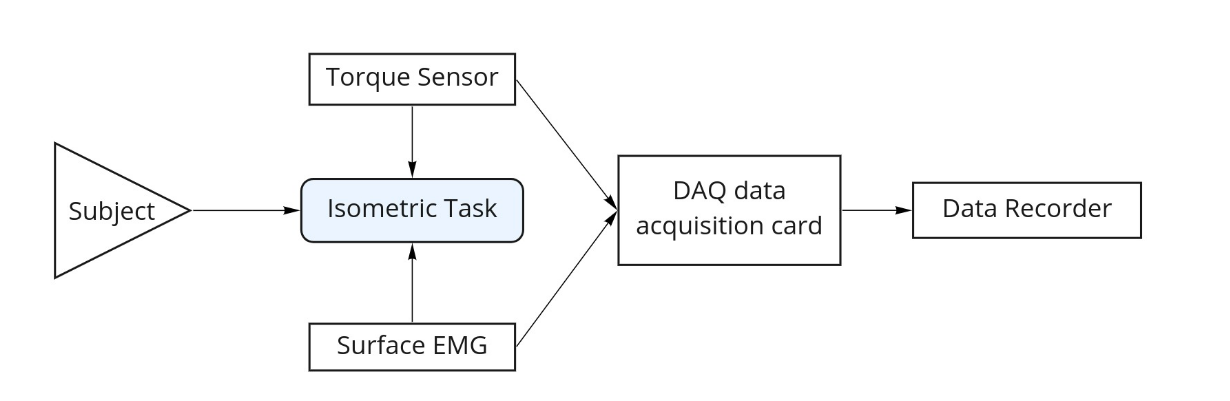
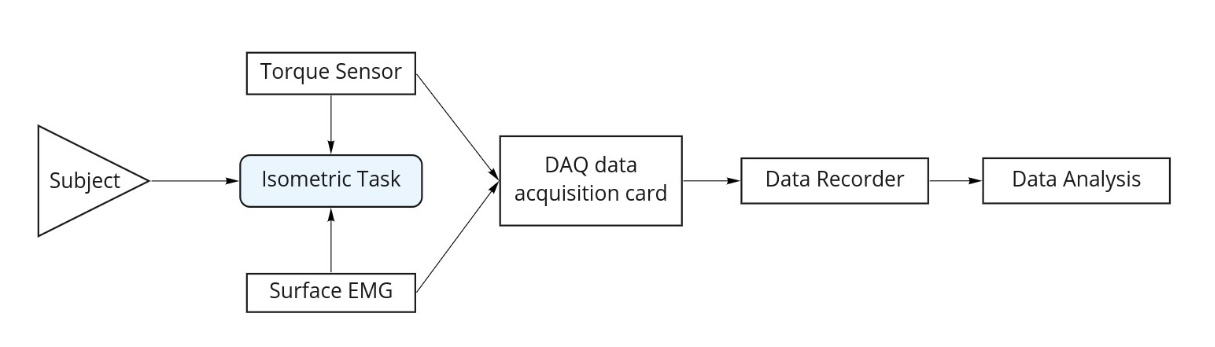
muscle synergy

Changed region(s): [[0.0305, 0.3458, 0.9745, 0.6916], [0.1827, 0.7781, 0.4263, 0.951], [0.1827, 0.1153, 0.4263, 0.2882]]

diff --git a/index.html b/index.html
@@ -323,24 +323,79 @@
                     <h5>System Pipeline</h5>
                     <img class="img-fluid d-block mx-auto" src="img/portfolio/muscle_proj/pipeline.png" alt="">
                     <P></P>
+                    <p>The system acquires torque data through the torque sensor as well as the EMG signal through 8 surface EMG electrodes. The torque data indicates the extent to which the participant is flexing about the testing elbow joint. 
+                        The EMG signal indicates the electical activity within each of the 8 testing muscles. We used a DAQ card for data acquisition. A Matlab program streams the sensory data and convert the voltage signal
+                        to the actual torque generated by the participant. A python program processes the collected data and use matrix factorization algorithm to find the synergies behind the EMG data  </p>
+                    <img class="img-fluid d-block mx-auto" src="img/portfolio/muscle_proj/EMG.png" alt="">
                     <h5>Participants and Conditions</h5>
                     <P></P>
                     <h6>Participants</h6>
-                    <!-- <img class="img-fluid d-block mx-auto" src="img/portfolio/muscle_proj/participants.png" alt=""> -->
                     <img class="img-fluid" src="img/portfolio/muscle_proj/participants.png" alt="" width="2000" height="1000">
-                    <p></p>
+                    <P>One male and three female participants with no hemiparetic stroke were tested. They were all right-hand dominant, and with a mean ± standard deviation age of 26 ± 3 (range: 22-29) </P>
                     <h6>Conditions</h6>
                     <img class="img-fluid" src="img/portfolio/muscle_proj/conditions.png" alt="" width="400" height="300">
-                    <h5>Isometric Task</h5>
-                    <img class="img-fluid" src="img/portfolio/muscle_proj/IMG_4475.jpg" alt="" width="400" height="300">
-                    <img class="img-fluid" src="img/portfolio/muscle_proj/IMG_4476.jpg" alt="" width="400" height="300">
+                    <p>The participant was asked to pull in using 2 different shoulder abduction loads (10% and 50% of the maximum shoulder abduction torque)</p>
                     <h5>Experiment Procedure</h5>
+                    <img class="img-fluid" src="img/portfolio/muscle_proj/setup.png" alt="" width="2000" height="1000">
+                    <p>The participant was requested to not exercise the day before and of testing to avoid muscle fatigue. At the beginning of the testing session, the participant sat with their torso and waist strapped to the Biodex chair. 
+                        The participant's testing arm was affixed to an isometric measurement device at 85° shoulder abduction, 40° shoulder flexion, and 90° elbow flexion.</p>
+                    <img class="img-fluid" src="img/portfolio/muscle_proj/emg-setup.png" alt="" width="1000" height="500">
+                    <p>8 electrode were placed on the surface of the person’s skin in order to record the muscle activities.</p>
+                    <h6>Demo</h6>
                     <iframe width="560" height="315" src="https://www.youtube.com/embed/x7HlRIp5OJ0" frameborder="0" allow="accelerometer; autoplay; clipboard-write; encrypted-media; gyroscope; picture-in-picture" allowfullscreen></iframe>
-                    
-                    <p><i>Experiment Setup</i></p>
-                    <img class="img-fluid d-block mx-auto" src="img/portfolio/stroke_proj/visual_pipeline.png" alt="">
-                    <p><i>The system acquires torque data indicating the extent to which the participant is flexing and extending about each elbow joint through two torque sensors. We used a DAQ card for data acquisition. A python script streams the sensory data at 1000Hz and passes signals to a callback function. The callback function utilizes the linear equation resulted from the [calibration](calibration/README.md) process to convert a voltage signal to the actual torque generated by the participant. A zeroing function can also be called to remove an offset in the voltage signal. The perceptual testing tasks use the results from the maximum voluntary torque test (maximum torque), as well as the real-time torque to determine the audiovisual feedback. The system renders the visual interface at 27Hz and records data at 1000Hz. </i></p>
-                    
+                    <p></p>
+                    <h4>Data Analysis</h4>
+                    <P></P>
+                    <h5>Muscle Synergy</h5>
+                    <img class="img-fluid" src="img/portfolio/muscle_proj/intuition.png" alt="" width="1000" height="500">
+                    <p>In order to condense the information and use less amount of muscle groups to explain all of the emgs, the idea of motor synergy was taken to find the muscle synergies. The goal here is to find the coordinated recruitment of groups of muscles with specific activation balances</p>
+                    <h5>Hypothesis</h5>
+                    <img class="img-fluid" src="img/portfolio/muscle_proj/hypothesis.png" alt="" width="1000" height="500">
+                    <p>The anticipated result is that there should be one synergy reinforces the elbow flexing and one reinforces the shoulder abduction.
+                        Since bicep is the main muscle for elbow flexing and the anterior deltoid is the main muscle for shoulder abduction, the hypothesis is made that the bicep is the 
+                    main muscle for one synergy group and the anterior deltoid is the main muscle for another synergy group </p>
+                    <p></p>
+                    <h5>Methods</h5>
+                    <p></p>
+                    <img class="img-fluid" src="img/portfolio/muscle_proj/intuition-algo.png" alt="" width="1000" height="500">
+                    The unsupervised learning method —— Nonnegative matrix factorization algorithm (NMF) is taken to find the muscle synergies that explains the 8 muscle activations. The squared residual and VAF measurements are taken to estimate the
+                    minimum number of muscle synergies, and cross-validation approach is used to help deriving a more accurate estimation.
+                    <p></p>
+                    <h6>EMG Preprocessing</h6>
+                    <p>EMGs were processed to remove baseline voltage drift, rectified, 
+                        and then averaged over the 0.5-s target matching interval. Mean baseline EMGs (recorded while subjects
+                        sat with their arm affixed to an isometric device without force generation) were subtracted from the averaged data. As a result, EMG data for each trial were vectors whose dimension was 8 (the number of
+                        muscles recorded) and these data reflected the increase in muscle activity corresponding to active force
+                        production. Before synergy extraction, EMG data recorded from each muscle were concatenated across
+                        trials relevant to the purpose of the synergy extraction and normalized by dividing each of the EMG channel by its maximum to have unit variance. This
+                        normalization procedure ensured that subsequent synergy extraction from preprocessed EMGs was not
+                        biased towards high-variance muscles.</p>
+                    <p></p>
+                    <h6>Identification of Muscle Synergies —— NMF Algorithm</h6>
+                    <p></p>
+                    <img class="img-fluid" src="img/portfolio/muscle_proj/NMF.png" alt="" width="1000" height="500">
+                    <p></p>
+                    <h6>Estimate the number of muscle synergies (k)</h6>
+                    <p></p>
+                    <img class="img-fluid" src="img/portfolio/muscle_proj/vaf.png" alt="" width="1000" height="500">
+                    <h6>Algorithm</h6>
+                    <p></p>
+                    <img class="img-fluid" src="img/portfolio/muscle_proj/algo.png" alt="" width="1000" height="500">
+                    <p></p>
+                    <h4>Results</h4>
+                    <p></p>
+                    <h5>MSE Box Plot</h5>
+                    <img class="img-fluid" src="img/portfolio/muscle_proj/mse.png" alt="" width="500" height="400">
+                    <p>The training error and testing error were plotted out based on the collected data. The box plot shows a clear trend in training error, where the mean square error of the training set decreases
+                    as the number of muscle synergy increases. But there isn't the same trend in the testing set, since the mean and standard deviation of the testing error for each number of muscle synergy doesn't have much difference among each other. Thus, the mean square error is not sufficient
+                    to estimate the minimum number of muscle synergies. Thus the VAF measurement is used to help estimate the number of muscle synergies <p>
+                    <p></p>
+                    <h5>MSE and VAF measurement results </h5>
+                    <p></p>
+                    <img class="img-fluid" src="img/portfolio/muscle_proj/VAF.png" alt="" width="700" height="300">
+                    <p></p>
+                    <p>According to the requirement that adding another synergy increased the mean global VAF < 3%, the number of muscle synergy for the 10% shoulder abduction load task was chosen to be 4 and that for the 50% shoulder abduction load task was chosen to be 2</p>
+                    <h5>Normalized Muscle synergy when shoulder abduction load is 10% (# synergies = 4)</h5>
                     <ul class="list-inline">
                     <p class="item-intro text-muted"> <a class="boxed" href="https://github.com/mushenghe/muscle_synergy_torque_accuracy"><font color="red"><b>Current Status and Source code here</b></font></a></p>
                       <li>Date: December 2019</li>
